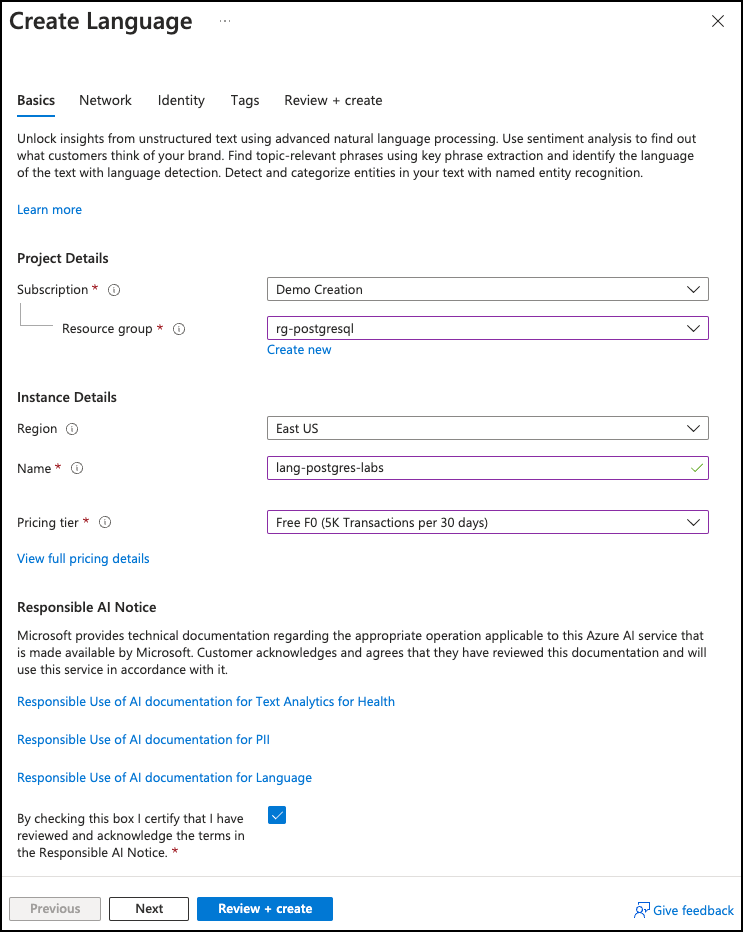
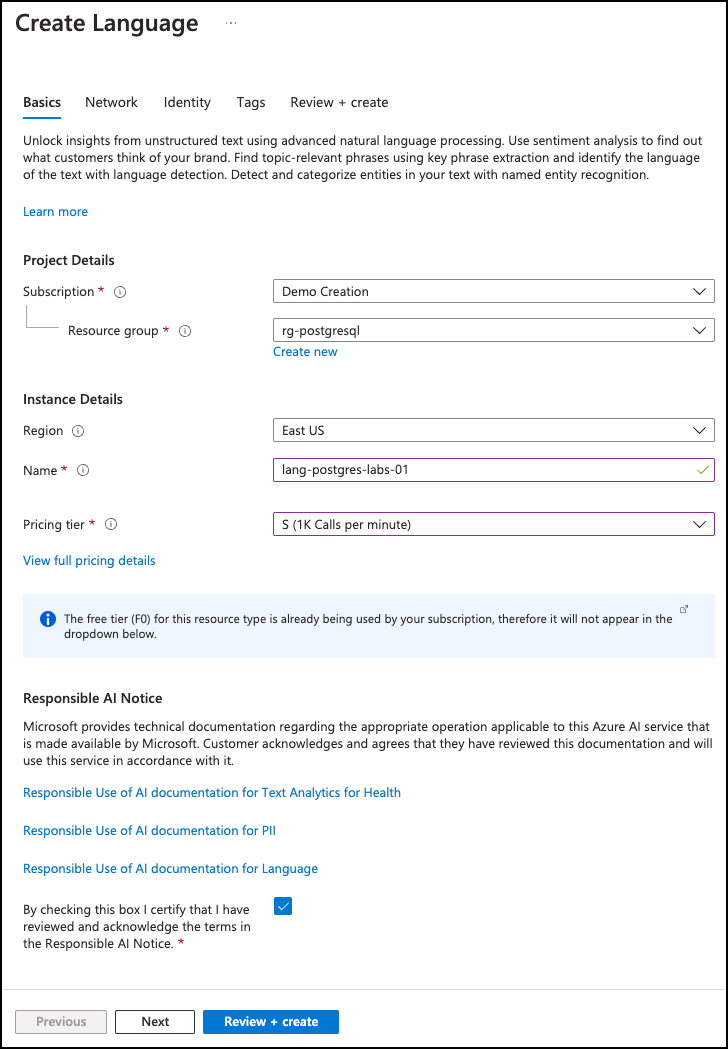
Lab 4 updates

diff --git a/labs/04_postgres_ai.md b/labs/04_postgres_ai.md
@@ -1,6 +1,6 @@
-# Hands on Lab: Building AI Apps with Azure OpenAI (TODO: Change title to: Generative AI with Azure Database for PostgreSQL Flexible Server?)
+# Hands-on Lab: Generative AI with Azure Database for PostgreSQL Flexible Server
 
-- [Hands on Lab: Building AI Apps with Azure OpenAI (TODO: Change title to: Generative AI with Azure Database for PostgreSQL Flexible Server?)](#hands-on-lab-building-ai-apps-with-azure-openai-todo-change-title-to-generative-ai-with-azure-database-for-postgresql-flexible-server)
+- [Hands-on Lab: Generative AI with Azure Database for PostgreSQL Flexible Server](#hands-on-lab-generative-ai-with-azure-database-for-postgresql-flexible-server)
   - [Exercise 1: Add Azure AI and Vector extensions to allowlist](#exercise-1-add-azure-ai-and-vector-extensions-to-allowlist)
   - [Exercise 2: Create an Azure OpenAI resource](#exercise-2-create-an-azure-openai-resource)
     - [Task 1: Provision an Azure OpenAI service](#task-1-provision-an-azure-openai-service)
@@ -17,17 +17,20 @@
   - [Exercise 5: Integrate Azure AI Services](#exercise-5-integrate-azure-ai-services)
     - [Task 1: Provision an Azure AI Language service](#task-1-provision-an-azure-ai-language-service)
     - [Task 2: Set the Azure AI Language service endpoint and key](#task-2-set-the-azure-ai-language-service-endpoint-and-key)
-    - [Task 3: Analyze sentiment of reviews](#task-3-analyze-sentiment-of-reviews)
-  - [Exercise 6: Build sample app](#exercise-6-build-sample-app)
-  - [Exercise 7: Clean up](#exercise-7-clean-up)
+    - [Task 3: Analyze the sentiment of reviews](#task-3-analyze-the-sentiment-of-reviews)
+  - [Exercise 6: Execute a final query to tie it all together (Optional)](#exercise-6-execute-a-final-query-to-tie-it-all-together-optional)
+    - [Task 1: Connect to the database using pgAdmin](#task-1-connect-to-the-database-using-pgadmin)
+    - [Task 2: Execute a query and view results on a map](#task-2-execute-a-query-and-view-results-on-a-map)
+  - [Exercise 6: Clean up](#exercise-6-clean-up)
+  - [Summary](#summary)
 
-[Generative AI](https://learn.microsoft.com/training/paths/introduction-generative-ai/) is a form of artificial intelligence in which [large language models](https://learn.microsoft.com/azure/postgresql/flexible-server/generative-ai-overview#large-language-model-llm) (LLMs) are trained to generate original content based on natural language input. LLMs are designed to understand and generate human-like language output, and are known for their ability to perform a wide range of natural language understanding and generation tasks. Generative AI has a wide range of applications for data-driven applications, including semantic search, recommendations systems, content generation, such as summarization, and many others.
+[Generative AI](https://learn.microsoft.com/training/paths/introduction-generative-ai/) is a form of artificial intelligence in which [large language models](https://learn.microsoft.com/azure/postgresql/flexible-server/generative-ai-overview#large-language-model-llm) (LLMs) are trained to generate original content based on natural language input. LLMs are designed to understand and generate human-like language output and are known for their ability to perform a wide range of natural language understanding and generation tasks. Generative AI has a wide range of applications for data-driven applications, including semantic search, recommendation systems, and content generation, such as summarization, among many others.
 
-In this lab, you take advantage of [Azure OpenAI](https://learn.microsoft.com/azure/ai-services/openai/overview) and the [Azure AI Language service](https://learn.microsoft.com/azure/ai-services/language-service/) to integrate rich generative AI capabilities directly into your Azure Database for PostgreSQL Flexible Server using the the [Azure AI Extension](https://learn.microsoft.com/azure/postgresql/flexible-server/generative-ai-azure-overview). The `azure_ai` extension adds the ability to leverage LLMs directly from your database.
+In this lab, you take advantage of [Azure OpenAI](https://learn.microsoft.com/azure/ai-services/openai/overview) and the [Azure AI Language service](https://learn.microsoft.com/azure/ai-services/language-service/) to integrate rich generative AI capabilities directly into your Azure Database for PostgreSQL Flexible Server using the [Azure AI Extension](https://learn.microsoft.com/azure/postgresql/flexible-server/generative-ai-azure-overview). The `azure_ai` extension adds the ability to leverage LLMs directly from your database.
 
 > Important:
 >
-> This lab builds upon the work you did with extensions in Lab 3 and relies on data loaded into the Azure Database for PostgreSQL Flexible Server in that lab.
+> This lab builds upon your work with extensions in Lab 3 and relies on data loaded into the Azure Database for PostgreSQL Flexible Server in that lab.
 
 ## Exercise 1: Add Azure AI and Vector extensions to allowlist
 
@@ -67,16 +70,16 @@ In this task, you create a new Azure OpenAI service.
     | Parameter            | Value |
     | -------------------- | ----- |
     | **Project details**  |       |
-    | Subscription         | Select the subscription you are using for resources in this lab. |
+    | Subscription         | Select the subscription you use for lab resources. |
     | Resource group       | Select the resource group you created in Lab 1. |
     | **Instance details** |       |
-    | Region               | For this lab, you will use a `text-embedding-ada-002` (version 2) embedding model. This model is currently only available in [certain regions](https://learn.microsoft.com/azure/ai-services/openai/concepts/models#embeddings-models). Please select a region from this list, such as `East US`, to use for this resource. |
+    | Region               | For this lab, you will use a `text-embedding-ada-002` (version 2) embedding model. This model is currently only available in [certain regions](https://learn.microsoft.com/azure/ai-services/openai/concepts/models#embeddings-models). Please select a region from this list, such as `East US`, for this resource. |
     | Name                 | _Enter a globally unique name_, such as `aoai-postgres-labs-SUFFIX`, where `SUFFIX` is a unique string, such as your initials. |
     | Pricing tier         | Select **Standard S0**. |
 
     ![The Basics tab of the Create Azure OpenAI dialog is displayed, and the fields are populated with the values specified in the task.](media/create-azure-openai-basics-tab.png)
 
-    > Note: If you see a message that the Azure OpenAI Service is currently available to customer via an application form. The selected subscription has not been enabled for use of the service and does not have quota for any pricing tiers, you will need to click the link to request access to the Azure OpenAI service and fill out the request form.
+    > Note: If you see a message that the Azure OpenAI Service is currently available to customers via an application form. The selected subscription has not been enabled for the service and does not have a quota for any pricing tiers; you will need to click the link to request access to the Azure OpenAI service and fill out the request form.
 
 5. Select **Next** to move to the **Networking** tab.
 
@@ -88,7 +91,7 @@ In this task, you create a new Azure OpenAI service.
 
 ### Task 2: Deploy an embedding model
 
-The `azure_ai` extension provides the ability to create vector embeddings from text. To create these embeddings requires a deployed `text-embedding-ada-002` (version 2) model within your Azure OpenAI service. In this task, you will use [Azure OpenAI Studio](https://oai.azure.com/) to create a model deployment that use can use.
+The `azure_ai` extension allows the creation of vector embeddings from text. To create these embeddings requires a deployed `text-embedding-ada-002` (version 2) model within your Azure OpenAI service. In this task, you will use [Azure OpenAI Studio](https://oai.azure.com/) to create a model deployment that you can employ.
 
 1. Navigate to your newly provisioned Azure OpenAI resource in the [Azure portal](https://portal.azure.com/).
 
@@ -106,19 +109,19 @@ The `azure_ai` extension provides the ability to create vector embeddings from t
     - **Model version**: Ensure **2 (Default)** is selected.
     - **Deployment name**: Enter `embeddings`.
 
-    ![The Deploy model dialog is displayed with text-embedding-ada-002 selected in the select a model box, 2 (default) selected in the model version box, and embeddings entered for the deployment name.](media/azure-openai-studio-deployments-deploy-model-dialog.png)
+    ![The Deploy model dialog is displayed with text-embedding-ada-002 selected in the select a model box, 2 (default) specified in the model version box, and embeddings entered for the deployment name.](media/azure-openai-studio-deployments-deploy-model-dialog.png)
 
 5. Select **Create** to deploy the model. After a few moments, the deployment will appear in the list of deployments.
 
 ## Exercise 3: Install and configure the `azure_ai` extension
 
-In this exercise, you install the `azure_ai` extention into your database and configure it to connect to your Azure OpenAI service.
+In this exercise, you install the `azure_ai` extension into your database and configure it to connect to your Azure OpenAI service.
 
 ### Task 1: Connect to the database using psql in the Azure Cloud Shell
 
-In this task, you use the `psql` command line utility from the Azure Cloud Shell to connect to your database.
+In this task, you use the [psql command-line utility](https://www.postgresql.org/docs/current/app-psql.html) from the [Azure Cloud Shell](https://learn.microsoft.com/azure/cloud-shell/overview) to connect to your database.
 
-1. You need the connection details for your database to connect to it using `psql` in the Cloud Shell. Navigate to your Azure Database for PostgreSQL Flexible Server resource in the [Azure portal](https://portal.azure.com/) and in the left-hand navigation menu, select **Connect** under **Settings**.
+1. You need the connection details for your database to connect to it using `psql` in the Cloud Shell. Navigate to your Azure Database for PostgreSQL Flexible Server resource in the [Azure portal](https://portal.azure.com/), and in the left-hand navigation menu, select **Connect** under **Settings**.
 
     ![The Connect menu item is highlighted under Settings in the left-hand navigation menu in the Azure portal.](media/azure-postgres-connect.png)
 
@@ -126,13 +129,13 @@ In this task, you use the `psql` command line utility from the Azure Cloud Shell
 
     ![The Cloud Shell icon is highlighted in the Azure portal toolbar and a Cloud Shell window is open at the bottom of the browser window.](media/portal-cloud-shell-postgres.png)
 
-3. From the database's **Connect** page, select **airbnb** for the **Database name** and copy the **Connection details** block.
+3. From the database's **Connect** page in the Azure portal, select **airbnb** for the **Database name**, then copy the **Connection details** block and paste it into the Cloud Shell.
 
     ![The Connection strings page of the Azure Cosmos DB Cluster resource is highlighted. On the Connection strings page, the copy to clipboard button to the right of the psql connection string is highlighted.](media/postgresql-connection-details-psql.png)
 
-4. Paste the connection details into the Cloud Shell, and replace the `{your_password}` token with the password you assigned to the `s2admin` user when creating your database. If the followed the instructions in Lab 1, the password should be `Seattle123Seattle123`.
+4. At the Cloud Shell prompt, replace the `{your_password}` token with the password you assigned to the `s2admin` user when creating your database, then run the command. If you followed the instructions in Lab 1, the password should be `Seattle123Seattle123`.
 
-5. Connect to your database using the [psql command-line utility](https://www.postgresql.org/docs/current/app-psql.html) by entering the following at the prompt.
+5. Connect to your database using the `psql` command-line utility by entering the following at the prompt:
 
     ```bash
     psql
@@ -158,7 +161,7 @@ The `azure_ai` extension allows you to integrate Azure OpenAI and Azure Cognitiv
 
 ### Task 3: Review the objects contained within the `azure_ai` extension
 
-Reviewing the objects contained within the `azure_ai` extension can provide a better understanding of the capabilities it offers. In this task, you inspect the various schemas, user-defined functions (UDFs), and composite types added to the database by the extension.
+Reviewing the objects within the `azure_ai` extension can provide a better understanding of its capabilities. In this task, you inspect the various schemas, user-defined functions (UDFs), and composite types added to the database by the extension.
 
 1. You can use the [`\dx` meta-command](https://www.postgresql.org/docs/current/app-psql.html#APP-PSQL-META-COMMAND-DX-LC) from the `psql` command prompt to list the objects contained within the extension.
 
@@ -196,7 +199,7 @@ Reviewing the objects contained within the `azure_ai` extension can provide a be
 
 ### Task 4: Set the Azure OpenAI endpoint and key
 
-Before using the `azure_openai` functions, you must configure the extension to your Azure OpenAI service endpoint and key.
+Before using the `azure_openai` functions, configure the extension to your Azure OpenAI service endpoint and key.
 
 1. Using the same browser tab where the Cloud Shell is open, navigate to your Azure OpenAI resource in the [Azure portal](https://portal.azure.com/) and select the **Keys and Endpoint** item under **Resource Management** from the left-hand menu, then copy your endpoint and access key.
 
@@ -222,9 +225,9 @@ Before using the `azure_openai` functions, you must configure the extension to y
 
 ## Exercise 4: Generate vector embeddings with Azure OpenAI
 
-The `azure_ai` extension's `azure_openai` schema enables the use of Azure OpenAI for creating vector embeddings for text values. Using this schema, you can [generate embeddings with Azure OpenAI](https://learn.microsoft.com/azure/ai-services/openai/how-to/embeddings) directly from the database to create vector representations of input text, which can then be used in vector similarity searches, as well as consumed by machine learning models.
+The `azure_ai` extension's `azure_openai` schema enables Azure OpenAI to create vector embeddings for text values. Using this schema, you can [generate embeddings with Azure OpenAI](https://learn.microsoft.com/azure/ai-services/openai/how-to/embeddings) directly from the database to create vector representations of input text, which can then be used in vector similarity searches, as well as consumed by machine learning models.
 
-[Embeddings](https://learn.microsoft.com/azure/postgresql/flexible-server/generative-ai-overview#embeddings) are a concept in machine learning and natural language processing (NLP) that involves representing objects, such as words, documents, or entities, as [vectors](https://learn.microsoft.com/azure/postgresql/flexible-server/generative-ai-overview#vectors) in a multi-dimensional space. Embeddings allow machine learning models to evaluate how closely related information is. This technique allows for efficient identification of relationships and similarities between data, allowing algorithms to identify patterns and make accurate predictions.
+[Embeddings](https://learn.microsoft.com/azure/postgresql/flexible-server/generative-ai-overview#embeddings) are a concept in machine learning and natural language processing (NLP) that involves representing objects, such as words, documents, or entities, as [vectors](https://learn.microsoft.com/azure/postgresql/flexible-server/generative-ai-overview#vectors) in a multi-dimensional space. Embeddings allow machine learning models to evaluate how closely related information is. This technique efficiently identifies relationships and similarities between data, allowing algorithms to identify patterns and make accurate predictions.
 
 ### Task 1: Enable vector support with the pgvector extension
 
@@ -262,11 +265,11 @@ The `listings` table is now ready to store embeddings. Using the `azure_openai.c
     | timeout_ms | `integer` | 3600000 | Timeout in milliseconds after which the operation is stopped. |
     | throw_on_error | `boolean` | true | Flag indicating whether the function should, on error, throw an exception resulting in a rollback of the wrapping transactions. |
 
-2. The first argument required by the `azure_openai.create_embeddings()` function is the `deployment_name`. This name was assigned when you deployed the embeddings model in your Azure OpenAI account. To retrieve this value, return to [Azure OpenAI Studio](https://oai.azure.com/), select **Deployments** under **Management** in the left-hand navigation menu. On the **Deployments** page, copy the **Deployment name** value associated with the `text-embedding-ada-002` model deployment.
+2. The first argument required by the `azure_openai.create_embeddings()` function is the `deployment_name`. This name was assigned when you deployed the embedding model in your Azure OpenAI account. To retrieve this value, return to [Azure OpenAI Studio](https://oai.azure.com/) and select **Deployments** under **Management** in the left-hand navigation menu. On the **Deployments** page, copy the **Deployment name** value associated with the `text-embedding-ada-002` model deployment.
 
     ![The embeddings deployment for the text-embedding-ada-002 model is highlighted on the Deployments tab in Azure OpenAI Studio.](media/azure-openai-studio-deployments-embeddings.png)
 
-3. Using the deployment name, run the following query to update each record in the `listings` table, inserting the generated vector embeddings for the `description` field into the `description_vector` column using the `azure_openai.create_embeddings()` function. Replace `{your-deployment-name}` with the **Deployment name** value you copied from the Azure OpenAI Studio **Deployments** page:
+3. Using the deployment name, run the following query to update each record in the `listings` table, inserting the generated vector embeddings for the `description` field into the `description_vector` column using the `azure_openai.create_embeddings()` function. Replace `{your-deployment-name}` with the **Deployment name** value you copied from the Azure OpenAI Studio **Deployments** page. **IMPORTANT**: You must rerun the above query until all the records are updated. Successfully updating all rows will be indicated by an output that reads `UPDATE ##`, where `##` is a number less than 100.
 
     ```sql
     WITH empty_vectors AS (
@@ -279,23 +282,33 @@ The `listings` table is now ready to store embeddings. Using the `azure_openai.c
     WHERE id IN (SELECT id FROM empty_vectors);
     ```
 
-    Rerun the above query until all of the records have been updated. This will be indicated by an output that reads `UPDATE ##`, where `##` is a number less than 100. TODO: Mention the requests per minute rate limit.
+    The above query uses a common table expression (CTE) to retrieve records from the `listings` table in the `abb` schema where the `description_vector` field is null. This CTE also includes `LIMIT 100` to reduce the number of records returns to only the first 100. The query then attempts to update the `description_vector` column with a vector representation of the `description` column using the `azure_openai.create_embeddings` function. The limited number of records when performing this update is to prevent the calls from exceeding the call rate limit of the Azure OpenAI service. The `throw_on_error` parameter is false, allowing the query to proceed if the rate limit is exceeded. If you exceed the limit, you will see a warning similar to the following:
 
-    **TODO: Determine if it makes sense to just do a couple hundred records and base the following queries off of those, or if we want to show how to handle cases, like above, where there are many records, and you have to account for rate limiting and token throttling.**
+    ```sql
+    WARNING:  azure_ai::azure_ai: 429: Requests to the Get a vector representation of a given input that can be easily consumed by machine learning models and algorithms. Operation under Azure OpenAI API version 2023-05-15 have exceeded call rate limit of your current OpenAI S0 pricing tier. Please retry after 1 second. Please go here: https://aka.ms/oai/quotaincrease if you would like to further increase the default rate limit.
+    ```
 
-4. Execute the following query to view the embeddings generated for the first record in the table.
+4. You can verify that the `description_vector` column has been populated for all `listings` records by running the following query:
+
+    ```sql
+    SELECT COUNT(*) FROM abb.listings WHERE description_vector IS NULL;
+    ```
+
+    The result of the query should be a count of 0.
+
+5. Once you have successfully updated the `description_vector` column for all records in the `listings` table, execute the following query to view the embeddings generated for the first record in the table.
 
     ```sql
     SELECT description_vector FROM abb.listings LIMIT 1;
     ```
 
-    Each embedding is a vector of floating point numbers, such that the distance between two embeddings in the vector space is correlated with semantic similarity between two inputs in the original format.
+    Each embedding is a vector of floating point numbers, so the distance between two embeddings in the vector space correlates with the semantic similarity between two inputs in the original format.
 
 ### Task 3: Perform a vector similarity search
 
-Vector similarity is a method used to measure how similar two items are by representing them as vectors, which are series of numbers. Vectors are often used to perform searches using LLMs. Vector similarity is commonly calculated using distance metrics, such as Euclidean distance or cosine similarity. Euclidean distance measures the straight-line distance between two vectors in the n-dimensional space, while cosine similarity measures the cosine of the angle between two vectors.
+Vector similarity is a method used to measure two items' similarity by representing them as vectors, which are series of numbers. Vectors are often used to perform searches using LLMs. Vector similarity is commonly calculated using distance metrics, such as Euclidean distance or cosine similarity. Euclidean distance measures the straight-line distance between two vectors in the n-dimensional space, while cosine similarity measures the cosine of the angle between two vectors.
 
-1. To enable more efficient searching over the `vector` field by creating an index on `listings` using cosine distance and [HNSW](https://github.com/pgvector/pgvector#hnsw), which is short for Hierarchical Navigable Small World. HNSW allows `pgvector` to use the latest graph-based algorithms to approximate nearest-neighbor queries.
+1. To enable more efficient searching over the `vector` field by creating an index on `listings` using cosine distance and [HNSW](https://github.com/pgvector/pgvector#hnsw), which is short for Hierarchical Navigable Small World. HNSW allows `pgvector` to utilize the latest graph-based algorithms to approximate nearest-neighbor queries.
 
     ```sql
     CREATE INDEX ON abb.listings USING hnsw (description_vector vector_cosine_ops);
@@ -313,13 +326,13 @@ Vector similarity is a method used to measure how similar two items are by repre
 
 ## Exercise 5: Integrate Azure AI Services
 
-The Azure AI services integrations included in the `azure_cognitive` schema of the `azure_ai` extension provide a rich set of AI Language features accessible directly from the database. The functionalities include sentiment analysis, language detection, key phrase extraction, entity recognition, and text summarization. Access to these capabilities is enabled through the [Azure AI Language service](https://learn.microsoft.com/azure/ai-services/language-service/overview).
+The Azure AI services integrations included in the `azure_cognitive` schema of the `azure_ai` extension provide a rich set of AI Language features accessible directly from the database. The functionalities include sentiment analysis, language detection, key phrase extraction, entity recognition, and text summarization. These capabilities are enabled through the [Azure AI Language service](https://learn.microsoft.com/azure/ai-services/language-service/overview).
 
 To review the complete list of Azure AI capabilities accessible through the extension, view the [Integrate Azure Database for PostgreSQL Flexible Server with Azure Cognitive Services documentation](https://learn.microsoft.com/azure/postgresql/flexible-server/generative-ai-azure-cognitive).
 
 ### Task 1: Provision an Azure AI Language service
 
-An [Azure AI Language](https://learn.microsoft.com/azure/ai-services/language-service/overview) service is required to take advantage of the `azure_ai` extensions cognitive functions. In this exercise, you will create an Azure AI Language service to use for the exercises in this lab.
+An [Azure AI Language](https://learn.microsoft.com/azure/ai-services/language-service/overview) service is required to take advantage of the `azure_ai` extensions cognitive functions. In this exercise, you will create an Azure AI Language service.
 
 1. In a web browser, navigate to the [Azure portal](https://portal.azure.com/).
 
@@ -340,12 +353,12 @@ An [Azure AI Language](https://learn.microsoft.com/azure/ai-services/language-se
     | Parameter            | Value |
     | -------------------- | ----- |
     | **Project details**  |       |
-    | Subscription         | Select the subscription you are using for resources in this lab. |
+    | Subscription         | Select the subscription you use for lab resources. |
     | Resource group       | Select the resource group you created in Lab 1. |
     | **Instance details** |       |
     | Region               | Select the region you used for your Azure Database for PostgreSQL Flexible Server resource. |
     | Name                 | _Enter a globally unique name_, such as `lang-postgres-labs-SUFFIX`, where `SUFFIX` is a unique string, such as your initials. |
-    | Pricing tier         | Select the free pricing tier, **Free F0**. |
+    | Pricing tier         | Select the standard pricing tier, **S (1K Calls per minute)**. |
     | Responsible AI Notice | Check the box to certify you have reviewed and acknowledged the Responsible AI Notice. |
 
     ![The Basics tab of the Create Language dialog is displayed and populated with the values specified above.](media/create-language-service-basics-tab.png)
@@ -354,7 +367,7 @@ An [Azure AI Language](https://learn.microsoft.com/azure/ai-services/language-se
 
 7. Select the **Create** button on the **Review + create** tab to provision the Language service.
 
-8. When the Language service deployment completes, select **Go to resource group** on the deployment page.
+8. Select **Go to resource group** on the deployment page when the language service deployment is complete.
 
     ![The go to resource group button is highlighted on the Language service deployment page.](media/create-language-service-deployment-complete.png)
 
@@ -373,50 +386,147 @@ As with the `azure_openai` functions, to successfully make calls against Azure A
     SELECT azure_ai.set_setting('azure_cognitive.subscription_key', '{api-key}');
     ```
 
-### Task 3: Analyze sentiment of reviews
+### Task 3: Analyze the sentiment of reviews
 
-In this task, you will use the `azure_cognitive.XXX` function to analyze the sentiment of reviews for properties and assign the sentiment score to a new column in the reviews table.
+In this task, you will use the `azure_cognitive.analyze_sentiment` function to evaluate reviews of Airbnb listings.
 
-TODO...
-
-1. To perform sentiment analysis using the `azure_cognitive` schema in the `azure_ai` extension, you use the `analyze_sentiment` function. Run the command below to quickly review that function:
+1. To perform sentiment analysis using the `azure_cognitive` schema in the `azure_ai` extension, you use the `analyze_sentiment` function. Run the command below to review that function:
 
     ```sql
     \df azure_cognitive.analyze_sentiment
     ```
 
-2. It is also important to understand the output of that function, so you can properly handle the value it returns. Run the following command to inspect the `sentiment_analysis_result` type:
+    The output shows the function's schema, name, result data type, and argument data types. This information helps in gaining an understanding of how to use the function.
+
+2. It is also essential to understand the structure of the result data type the function outputs so you can correctly handle its return value. Run the following command to inspect the `sentiment_analysis_result` type:
 
     ```sql
     \dT+ azure_cognitive.sentiment_analysis_result
     ```
 
-    This `azure_cognitive.sentiment_analysis_result` is a result record containing the sentiment predictions of the input text. It contains the sentiment, which can be positive, negative, neutral and mixed; and the score for positive, neutral and negative found in the text represented as a real number between 0 and 1. For example in (neutral,0.26,0.64,0.09), the sentiment is neutral with positive score at 0.26, neutral at 0.64 and negative at 0.09.
-
-3. Now that you have an understanding of how to analyze sentiment using the extension and what the expected return type is, execute the following query to see how it works:
+3. The output of the above command reveals the `sentiment_analysis_result` type is a `tuple`. To understand the structure of that `tuple`,  run the following command to look at the columns contained within the `sentiment_analysis_result` composite type:
 
     ```sql
+    \d+ azure_cognitive.sentiment_analysis_result
     ```
-    
 
-## Exercise 6: Build sample app
+    The output of that command should look similar to the following:
 
-Explore a low code/nocode chatbot using postgres? (Have to see how easy)
+    ```sql
+                     Composite type "azure_cognitive.sentiment_analysis_result"
+         Column     |       Type       | Collation | Nullable | Default | Storage  | Description 
+    ----------------+------------------+-----------+----------+---------+----------+-------------
+     sentiment      | text             |           |          |         | extended | 
+     positive_score | double precision |           |          |         | plain    | 
+     neutral_score  | double precision |           |          |         | plain    | 
+     negative_score | double precision |           |          |         | plain    |
+    ```
 
-Possibly use a simple Steamlit app to interact with database and execute vector similarity searches?
+    The `azure_cognitive.sentiment_analysis_result` is a composite type containing the sentiment predictions of the input text. It includes the sentiment, which can be positive, negative, neutral, or mixed, and the scores for positive, neutral, and negative aspects found in the text. The scores are represented as real numbers between 0 and 1. For example, in (neutral,0.26,0.64,0.09), the sentiment is neutral with a positive score of 0.26, neutral of 0.64, and negative at 0.09.
 
-Take a look at this example from Denzil: https://github.com/YugabyteDB-Samples/yugabytedb-azure-openai-lodging-service
+4. Now that you have an understanding of how to analyze sentiment using the extension and the shape of the return type, execute the following query to see how it works:
 
-TODO: Come up with some good queries that cross the boundaries of the work that has been done in labs 3 and 4 to really showcase the capabilities. Combine geospatial query with semantic search and other such things.
+    ```sql
+    WITH cte AS (
+        SELECT id, azure_cognitive.analyze_sentiment(comments, 'en') AS sentiment FROM abb.reviews LIMIT 3
+    )
+    SELECT
+        id,
+        (sentiment).sentiment,
+        (sentiment).positive_score,
+        (sentiment).neutral_score,
+        (sentiment).negative_score
+    FROM cte;
+    ```
 
-## Exercise 7: Clean up
+    The above query uses a common table expression or CTE to get the sentiment scores for the first three records in the `reviews` table. It then selects the `sentiment` composite type columns from the CTE to extract the individual values from the `sentiment_analysis_result`.
 
-It is crucial that you clean up any unused resources. You are charged for the configured capacity, not how much the database is used. To delete your resource group and all resources you created for this lab, follow these instructions:
+## Exercise 6: Execute a final query to tie it all together (Optional)
 
-1. Open a web browser and navigate to the [Azure portal](https://portal.azure.com/).
+In this exercise, you connect to your database in **pgAdmin** and execute a final query that ties together your work with the `azure_ai`, `postgis`, and `pgvector` extensions across labs 3 and 4.
 
-2. In the left-hand navigation menu, select **Resource Groups**, and then select the resource group you created as part of Exercise 1.
+### Task 1: Connect to the database using pgAdmin
+
+In Lab 1, you downloaded and installed [pgAdmin](https://www.pgadmin.org/download/) and registered a connection to your database server. In this task, you will open pgAdmin and connect to your database.
+
+> Note: you configured pgAdmin to connect to your server in Lab 1. If necessary, refer back to those steps to register your database server and establish a connection to your database.
+
+1. Open **pgAdmin** on your local or lab virtual machine.
+
+2. Expand the **Servers** node within the Object Explorer, select your database server from the list, then right-click the server and select **Connect Server** from the context menu.
+
+    ![The Azure Database for PostgreSQL Flexible Server instance is selected and highlighted in the Object Explorer in pgAdmin. In the server's context menu, Connect Server is highlighted.](media/pg-admin-server-connect.png)
+  
+3. Once connected to your server, expand the **Databases** node and select the **airbnb** database. Right-click the **airbnb** database and select **Query Tool** from the context menu.
+
+    ![Under the server databases, the airbnb database is selected and Query Tool is highlighted in the context menu.](media/pg-admin-airbnb-database-query-tool.png)
+
+### Task 2: Execute a query and view results on a map
+
+In this task, you run a final query that ties together your work across labs 3 and 4.
+
+1. Run the below query that incorporates elements of the `azure_ai` and `PostGIS` extensions you have worked with in labs 3 and 4:
+
+    ```sql
+    WITH listings_cte AS (
+        SELECT id, name, listing_location, summary FROM abb.listings l
+        INNER JOIN abb.calendar c ON l.id = c.listing_id
+        WHERE ST_DWithin(
+            listing_location,
+            ST_GeomFromText('POINT(-122.410347 47.655598)', 4326),
+            0.025
+        )
+        AND c.date = '2016-01-13'
+        AND c.available = true
+        AND c.price <= 75.00
+        AND id IN (SELECT listing_id FROM abb.reviews)
+        ORDER BY description_vector <=> azure_openai.create_embeddings('embeddings', 'Properties with a private room near Discovery Park')::vector
+        LIMIT 3
+    ),
+    sentiment_cte AS (
+        SELECT listing_id, comments, azure_cognitive.analyze_sentiment(comments, 'en') AS sentiment
+        FROM abb.reviews r
+        INNER JOIN listings_cte l ON r.listing_id = l.id
+    )
+    SELECT
+        id,
+        name,
+        listing_location,
+        summary,
+        avg((sentiment).positive_score) as avg_positive_score,
+        avg((sentiment).neutral_score) as avg_neutral_score,
+        avg((sentiment).negative_score) as avg_negative_score
+    FROM sentiment_cte s
+    INNER JOIN listings_cte l on s.listing_id = l.id
+    GROUP BY id, name, listing_location, summary;
+    ```
+
+2. In the **Data Output** panel, select the **View all geometries in this column** button displayed in the `listing_location` column of the query results.
+
+    ![In the query Data Output panel, the View all geometries in this column button is highlighted.](media/pgadmin-final-query-data-output.png)
+
+    The **View all geometries in this column** button opens the **Geometry Viewer**, allowing you to view the query results on a map.
+
+3. Select one of the three points displayed on the map to view details about the location, including the average positive, neutral, and negative sentiment scores across all ratings for the property.
+
+    ![The Geometry Viewer tab is highlighted and a property point is highlighted on the map.](media/pgadmin-final-query-geometry-viewer.png)
+
+## Exercise 6: Clean up
+
+It is crucial that you clean up any resources you created for these labs once you have completed them. You are charged for the configured capacity, not how much the database is used. To delete your resource group and all resources you created for this lab, follow the instructions below:
+
+1. Open a web browser and navigate to the [Azure portal](https://portal.azure.com/), and on the home page, select **Resource groups** under Azure services.
+
+    ![Resource groups is highlighted under Azure services in the Azure portal.](media/azure-portal-home-azure-services-resource-groups.png)
+
+2. In the filter for any field search box, enter the name of the resource group you created for these labs in Lab 1, and then select the resource group from the list.
 
 3. In the **Overview** pane, select **Delete resource group**.
 
-4. Enter the name of the resource group you created to confirm and then select **Delete**.
+    ![On the Overview blade of the resource group. The Delete resource group button is highlighted.](media/resource-group-delete.png)
+
+4. In the confirmation dialog, enter the name of the resource group you created to confirm and then select **Delete**.
+
+## Summary
+
+Congratulations! You have completed the **Generative AI with Azure Database for PostgreSQL Flexible Server** hands-on lab. In this lab, you explored the powerful extensibility of Azure Database for PostgreSQL Flexible Server by installing and using the `azure_ai` extension to directly add the power of generative AI and large language models into your database.
